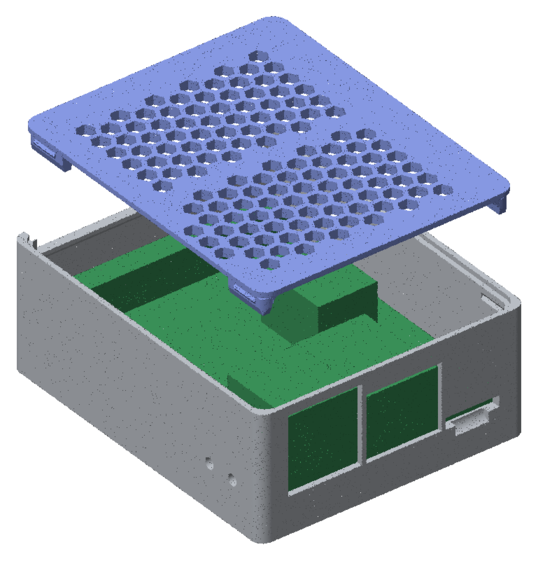
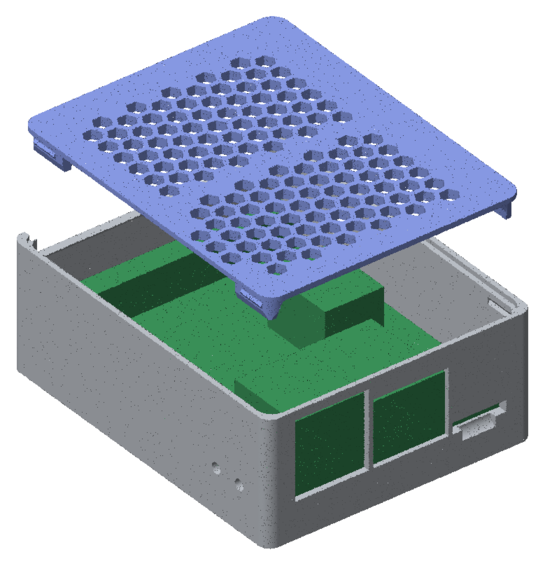
feat(case): 75 mm long case; fitting check is drop, slide and settle
The board plus its connector overhang is about 70 mm and did not fit the
69 mm cavity at any tilt. The header-end gap grows from 0.5 to 2.5 mm
(outer length 75 mm), so the board drops straight in shifted back, slides
its connectors into the cable wall 0.5 mm above the standoffs and settles.
fitting_motion now checks exactly that, including underside parts passing
over the standoffs; it rejects the old 73 mm case.

Claude-Session: https://claude.ai/code/session_01NRMLBLuUy5566yU1ZeqFdZ

diff --git a/case/p4_case/checks.py b/case/p4_case/checks.py
@@ -13,7 +13,7 @@ from build123d import Align, Box, Cylinder, Part, Pos, Rot
 
 from p4_case import params as P
 from p4_case.base import rounded_block
-from p4_case.board import FACTS, BoardModel, check_facts
+from p4_case.board import ENV_RES, FACTS, BoardModel, check_facts
 from p4_case.lid import opening_widths
 from p4_case.params import board_z
 from p4_case.results import CheckResult
@@ -30,8 +30,9 @@ BRIDGE_MAX = 18.0  # 8: longest accepted bridge
 DROOP_MAX = 0.5  # small round tops (pin-holes, SMA) sag less than this; accepted
 DROOP_SPAN_MAX = 8.0  # ... as long as they are small
 BRIDGE_WIDTH_MAX = 3.0  # bridges here run across a 2 mm wall
-FIT_STEP_DEG = 1.0
-FIT_MAX_DEG = 30.0
+FIT_BACK = 0.2  # connector fronts this far inside the cable wall's inner face while dropping in
+FIT_LIFT = 0.5  # the board slides this high above the standoffs
+FIT_STEP_MM = 0.25
 SMA_ENVELOPE_R = 5.0  # 5.2: free radius around the SMA axis inside the wall
 SMA_ENVELOPE_LEN = 12.0
 HEADER_RIBBON_X = (2.1, 52.9)  # a 40-wire ribbon centred on the header
@@ -182,74 +183,88 @@ def opening_paths(base: Part, lid: Part) -> CheckResult:
 BOARD_CORNER_R = 2.0  # the PCB's corner radius (spec section 3)
 
 
-def board_bodies() -> list[Part]:
-    """The board for the motion check: the rounded PCB and the boxes of the parts above it.
+def board_bodies(rise: float = 0.0) -> list[Part]:
+    """The board for the motion check: the rounded PCB and the boxes of the parts above it, raised by rise on top.
 
     Part boxes are clipped to Z ≥ 0: below the PCB they hold only pins, which never reach the walls.
     """
     pcb = FACTS["pcb"]
     bodies = [
-        rounded_block(pcb.x0, pcb.x1, pcb.y0, pcb.y1, pcb.z0, pcb.z1, BOARD_CORNER_R)
+        rounded_block(
+            pcb.x0, pcb.x1, pcb.y0, pcb.y1, pcb.z0, pcb.z1 + rise, BOARD_CORNER_R
+        )
     ]
     for k in ("usb", "rj45", "sd", "button_a", "button_b", "header", "transformer"):
         b = FACTS[k]
-        bodies.append(_box(b.x0, b.x1, b.y0, b.y1, max(b.z0, 0.0), b.z1))
+        bodies.append(_box(b.x0, b.x1, b.y0, b.y1, max(b.z0, 0.0), b.z1 + rise))
     return bodies
 
 
-def _posed(bodies: list[Part], theta: float, shift_y: float) -> Part:
-    """Board bodies tilted by theta (header end up) about the PCB's bottom front edge, then shifted along Y."""
-    pivot_z = FACTS["pcb"].z0
-    moved = [
-        Pos(0, shift_y, pivot_z) * Rot(theta, 0, 0) * Pos(0, 0, -pivot_z) * b
-        for b in bodies
-    ]
-    return Part() + moved
+def _posed(bodies: list[Part], shift_y: float, lift: float) -> Part:
+    """Board bodies shifted toward the header end by shift_y and raised by lift."""
+    return Part() + [Pos(0, shift_y, lift) * b for b in bodies]
 
 
-def fitting_motion(base: Part) -> CheckResult:
-    """The board goes in tilted, slides its connectors into the cable wall, then swings down onto the standoffs.
+def _underside_over_standoffs(board: BoardModel, shift_max: float) -> float:
+    """Deepest board underside part (below the PCB) that crosses a standoff top while the board slides shift_max → 0."""
+    env = board.envelope
+    r = P.STANDOFF_D / 2
+    pcb_bottom = FACTS["pcb"].z0
+    deepest = 0.0
+    offsets = np.arange(-r, r + ENV_RES / 2, ENV_RES)
+    for hx, hy in P.SCREW_HOLES:
+        for s in np.arange(0.0, shift_max + 1e-6, ENV_RES):
+            for dx in offsets:
+                for dy in offsets:
+                    if dx * dx + dy * dy > r * r:
+                        continue
+                    b = env.bottom(hx + dx, hy + dy - s)
+                    if not math.isnan(b):
+                        deepest = max(deepest, pcb_bottom - b)
+    return deepest
 
-    Start tilt: the smallest angle at which the tilted board, shifted back so its connectors clear the cable wall's inner
-    face, drops in between the walls. From there the board slides forward at that tilt and rotates down to 0°, checked
-    at every FIT_STEP_DEG and every 0.5 mm of slide.
+
+def fitting_motion(base: Part, board: BoardModel | None = None) -> CheckResult:
+    """The board drops straight in, shifted toward the header end, then slides its connectors into the cable wall.
+
+    Drop: shifted back FIT_BACK beyond the connectors' fronts and raised FIT_LIFT above the standoffs, the board's swept
+    volume from above the wall tops down to that pose is clear of the base. Slide: at that height it moves forward in
+    FIT_STEP_MM steps until home, clear of the base; underside parts crossing the standoffs hang less than FIT_LIFT.
+    Settle: at home it lowers onto the standoffs.
     """
     bodies = board_bodies()
-    back = (
-        P.INNER[2] - min(FACTS[k].y0 for k in ("usb", "rj45")) + 0.2
-    )  # connectors just inside the wall face
-    theta0 = None
-    t = 0.0
-    while t <= FIT_MAX_DEG:
-        if _intersection(_posed(bodies, t, back), base) <= BOOL_EPS:
-            theta0 = t
-            break
-        t += FIT_STEP_DEG
-    if theta0 is None:
+    front = min(FACTS[k].y0 for k in ("usb", "rj45"))
+    back = P.INNER[2] - front + FIT_BACK
+    rise = board_z(P.TOP) + 5 - FACTS["pcb"].z0
+    if _intersection(_posed(board_bodies(rise), back, FIT_LIFT), base) > BOOL_EPS:
         return CheckResult(
             "board fits in",
             False,
-            f"no start tilt up to {FIT_MAX_DEG:.0f}° drops in between the walls",
+            f"the straight drop {back:.2f} mm back hits the base",
         )
-    for k in range(int(back / 0.5) + 1):
-        shift = max(back - 0.5 * k, 0.0)
-        if _intersection(_posed(bodies, theta0, shift), base) > BOOL_EPS:
+    n = math.ceil(back / FIT_STEP_MM)
+    for k in range(n + 1):
+        shift = back * (1 - k / n)
+        if _intersection(_posed(bodies, shift, FIT_LIFT), base) > BOOL_EPS:
+            return CheckResult(
+                "board fits in", False, f"the slide collides {shift:.2f} mm before home"
+            )
+    if _intersection(_posed(bodies, 0.0, 0.0), base) > BOOL_EPS:
+        return CheckResult(
+            "board fits in", False, "the board collides when it settles at home"
+        )
+    if board is not None:
+        deepest = _underside_over_standoffs(board, back)
+        if deepest >= FIT_LIFT:
             return CheckResult(
                 "board fits in",
                 False,
-                f"slide at {theta0:.0f}° collides {shift:.1f} mm before home",
+                f"an underside part {deepest:.2f} mm deep crosses a standoff during the slide",
             )
-    t = theta0
-    while t >= 0:
-        if _intersection(_posed(bodies, t, 0.0), base) > BOOL_EPS:
-            return CheckResult(
-                "board fits in",
-                False,
-                f"swing-down collides at {t:.0f}° (start tilt {theta0:.0f}°)",
-            )
-        t -= FIT_STEP_DEG
     return CheckResult(
-        "board fits in", True, f"start tilt {theta0:.0f}°, slide and swing-down clear"
+        "board fits in",
+        True,
+        f"drop in {back:.2f} mm back, lift {FIT_LIFT} mm, slide forward and settle: clear",
     )
 
 
@@ -503,7 +518,7 @@ def run_all(board: BoardModel, base: Part, lid: Part) -> list[CheckResult]:
         opening_paths(base, lid),
         lid_seats(base, lid),
         led_visible(lid),
-        fitting_motion(base),
+        fitting_motion(base, board),
         ribbon_plug_fit(base),
         keyhole_volumes(board),
         nut_circles(board),

diff --git a/case/tests/test_checks.py b/case/tests/test_checks.py
@@ -62,23 +62,23 @@ class TestOpeningPathsBlocked:
 class TestFittingMotionDefault:
     """checks.fitting_motion: On the default base"""
 
-    def test_passes_and_reports_the_start_angle(self, results):
+    def test_passes_and_reports_the_drop_offset(self, results):
         r = results["board fits in"]
         assert r.ok, r.detail
-        assert "start tilt" in r.detail
+        assert "drop in" in r.detail
 
 
 class TestFittingMotionNoTopMargin:
     """checks.fitting_motion: With the USB opening's top cut 0.3 mm into the connector"""
 
-    def test_fails_and_reports_the_first_failing_angle(self, base):
+    def test_fails_and_reports_where(self, base):
         usb = FACTS["usb"]
         lintel = box(
             usb.x0 - 1, usb.x1 + 1, P.OUTER[2], P.INNER[2], usb.z1 - 0.3, usb.z1 + 1.2
         )
         r = checks.fitting_motion(base + lintel)
         assert not r.ok
-        assert "°" in r.detail
+        assert "collides" in r.detail or "hits" in r.detail
 
 
 class TestLidClearance:

diff --git a/case/p4_case/params.py b/case/p4_case/params.py
@@ -23,7 +23,10 @@ def board_z(case_z_value: float) -> float:
 WALL = 2.0
 GAP = 0.5  # board edge to inner wall face
 PCB_X1, PCB_Y1 = 55.0, 68.0
-INNER = (-GAP, PCB_X1 + GAP, -GAP, PCB_Y1 + GAP)  # x0, x1, y0, y1
+# board edge to the header-end wall: room to drop the board in shifted back, then slide its connectors into the
+# cable wall (outer length 75 mm)
+HEADER_GAP = 2.5
+INNER = (-GAP, PCB_X1 + GAP, -GAP, PCB_Y1 + HEADER_GAP)  # x0, x1, y0, y1
 OUTER = (INNER[0] - WALL, INNER[1] + WALL, INNER[2] - WALL, INNER[3] + WALL)
 INNER_R = 2.0 + GAP  # board corner radius 2 + gap
 OUTER_R = 2.5  # outer vertical edges; concentric with the ribbon recess corners at the header end

diff --git a/case/tests/test_base.py b/case/tests/test_base.py
@@ -23,10 +23,10 @@ class TestDefaultBase:
         assert len(base.solids()) == 1
         assert base.is_valid
 
-    def test_has_the_outer_size_60_by_73_by_27_6(self, base):
+    def test_has_the_outer_size_60_by_75_by_27_6(self, base):
         bb = base.bounding_box()
         assert bb.size.X == pytest.approx(60.0, abs=0.1)
-        assert bb.size.Y == pytest.approx(73.0, abs=0.1)
+        assert bb.size.Y == pytest.approx(75.0, abs=0.1)
         assert bb.size.Z == pytest.approx(27.6, abs=0.1)
         assert bb.min.Z == pytest.approx(board_z(0.0), abs=0.01)
 

diff --git a/docs/superpowers/specs/2026-11-02-p4-case-design.md b/docs/superpowers/specs/2026-11-02-p4-case-design.md
@@ -90,7 +90,7 @@ the result.
 | Lid fixing | four corner tabs hang into the inner corners of the base and guide the lid into place; a bump on each, ramped 45° on both sides, clicks into a dent in the side wall: push to close, lever up to open |
 | Opening the lid | lever it up through the grille with a small flat screwdriver; no pry cut-outs in this revision |
 | Board fixing | four M2.5 countersunk (flat-head) screws from the back: through a countersunk hole in the back plate, up through a Ø6 × 5 mm standoff and the board's hole, held by an M2.5 nut on top of the board; the heads sit flush with the back, so the case still lies flat on the wall |
-| Board fitting | the board goes in from the open top, tilted, connectors first into the cable-wall holes, then the header end is lowered onto the standoffs |
+| Board fitting | the board drops straight in from the open top, about 1.7 mm toward the header end, then slides forward (lifted 0.5 mm) so the USB and RJ45 go into their cable-wall holes, and settles onto the standoffs |
 | SMA | D-hole in the right (X = 55) wall; fitted after the board: the pigtail clips onto the board, the bulkhead goes out through the wall from inside, nut tightened outside |
 | 40-pin header | wiring (jumpers or a ribbon cable) leaves through a slot along the top of the header-end wall; no opening in the lid over the header |
 | Wall mounting | two L-shaped keyholes in the flat back plate, 32 mm apart, for either orientation |
@@ -100,7 +100,7 @@ the result.
 | Wall / plate thickness | 2.0 mm; lid plate 2.0 mm |
 | Clearance board ↔ inner wall | 0.5 mm, with a local recess at the buttons (see 5.2) |
 | Clearance over the tallest part | 1.0 mm (lid underside at board Z 17.0); the extra 0.5 mm leaves 1 mm of wall above the USB opening |
-| Outer size | about 60 × 73 × 27.6 mm |
+| Outer size | about 60 × 75 × 27.6 mm |
 | Printing | FDM, 0.4 mm nozzle, PETG recommended (the tabs flex), PLA acceptable; no supports; base prints back-plate down, lid prints top-face down |
 
 ## 5. Geometry
@@ -117,7 +117,8 @@ Heights are given in *case Z*. Case Z = 0 is the outer back face, and the board 
 | Rebate floor (lid flange rests here) | 26.6 |
 | Wall tops and lid top (flush) | 27.6 |
 
-In plan view, the inner outline is the PCB outline plus 0.5 mm all round, and the outer outline adds 2 mm of wall. The
+In plan view, the inner outline is the PCB outline plus 0.5 mm on three sides and 2.5 mm at the header end (room to
+drop the board in shifted back before sliding its connectors home), and the outer outline adds 2 mm of wall. The
 outer vertical edges are rounded.
 
 ### 5.1 Base: back plate and keyholes
@@ -157,8 +158,8 @@ sits inside the walls (2 mm total), so its underside is at case Z 25.6.
 
 - **Cable wall (Y = 0 edge):**
   - **Openings:** one for the USB stack (USB-C and USB-A together), one for the RJ45 and one slot for the microSD.
-    - Each is the connector envelope plus 0.5 mm, except the top edge of the USB and RJ45 openings, which gets 1 mm so
-      the board can tilt in.
+    - Each is the connector envelope plus 0.5 mm, except the top edge of the USB and RJ45 openings, which gets 1 mm of
+      extra room.
     - The USB opening's top edge (case Z ≈ 25.6) leaves 1 mm of wall below the rebate floor (26.6).
   - **microSD:** the slot runs from 0.6 mm below the board's top face to 2 mm above it, across X 39.2–51.4. It has a
     thumb scoop in the outer face below it, so a fingernail or pencil can push the card in and out.
@@ -178,7 +179,7 @@ sits inside the walls (2 mm total), so its underside is at case Z 25.6.
 - **Left wall (X = 0 edge, buttons):**
   - Two Ø2.5 pin-holes on the plunger axes (Y 5.65 and 12.35 and the plunger's Z, taken from the model).
   - The plungers sit only 0.15 mm from the inner face, so the inner face gets a shallow local recess around both buttons
-    to keep ≥ 0.3 mm clearance and let the board tilt in. There are no guide tubes.
+    to keep ≥ 0.3 mm clearance as the board slides in. There are no guide tubes.
 - **Right wall (X = 55 edge, SMA):**
   - A D-shaped hole, Ø6.5 with a flat at 5.9, at board Y ≈ 52 and case Z ≈ 17.6.
   - The builder checks clearance inside: a 5 mm radius around the axis, out to 12 mm from the wall, must miss the board,
@@ -265,12 +266,14 @@ These are automated checks, run against the vendor STEP:
 - Every opening (USB-C, USB-A, RJ45, microSD, both buttons, header slot, SMA hole) has an unobstructed straight path from
   outside to the part it serves.
 - **Fitting motion:**
-  - The board (rounded PCB plus the boxes of the parts above it) is tilted header-end up about its bottom front edge.
-  - **Drop in:** the start tilt is the smallest whole angle at which the tilted board, held back so its connector fronts
-    are just inside the cable wall, drops in between the walls.
-  - **Slide:** at that tilt it slides forward until the connectors are at their final depth, checked every 0.5 mm.
-  - **Swing down:** it rotates to flat, checked every 1°.
-  - The board never intersects the base, and the start tilt is reported. The model gives 5°.
+  - The board (rounded PCB plus the boxes of the parts above it) moves flat; it is never tilted.
+  - **Drop:** shifted toward the header end until its connector fronts are 0.2 mm inside the cable wall's inner face
+    (1.69 mm) and 0.5 mm above the standoffs, its volume swept straight down from above the wall tops is clear of the
+    base.
+  - **Slide:** at that height it slides forward to home, checked every 0.25 mm. Underside parts that cross a standoff top
+    on the way hang less than the 0.5 mm lift (the deepest is about 0.3 mm).
+  - **Settle:** at home it lowers onto the standoffs.
+  - The 73 mm case of the first draft fails this check; that is why the case is 75 mm long.
   - If no such motion exists with the margins in 5.2, stop and report back. Don't open up the cable-wall holes without
     asking.
 - A ribbon-plug block (55.9 × 9 × 9 mm, seated on the header body, centred on it) fits with at least 0.5 mm clearance to

diff --git a/docs/case.md b/docs/case.md
@@ -36,7 +36,7 @@ make case-test    # the model's tests (about 1.5 min)
 - the board facts still match the vendor model;
 - clearance to the board is at least 0.3 mm;
 - every opening has a clear path to its part;
-- the board can be fitted (start tilt 5°);
+- the board can be fitted (drop in, slide forward, settle);
 - the lid clears the SMA, a ribbon plug and its ribbon;
 - the screw heads have room behind the keyholes, and the board-screw nuts have room on top;
 - the lid seats on the base without overlap, and the LED shows through it;
@@ -65,8 +65,9 @@ make case-test    # the model's tests (about 1.5 min)
 
 ## Assembly
 
-1. **Board:** tilt the board header end up, slide the USB and RJ45 into their holes in the cable wall, and lower the
-   header end onto the standoffs. Push the four countersunk screws in from the back through the standoffs and the board,
+1. **Board:** lower the board flat into the base, pushed toward the header end (there's 2 mm of room there). Lift it
+   slightly and slide it toward the cable wall so the USB and RJ45 go into their holes, then let it settle onto the
+   standoffs. Push the four countersunk screws in from the back through the standoffs and the board,
    and tighten a nut on each from the top.
 2. **SMA:** clip the pigtail onto the board's antenna socket. Push the SMA bulkhead out through the D-hole in the right
    wall from inside, and tighten its nut on the outside.
